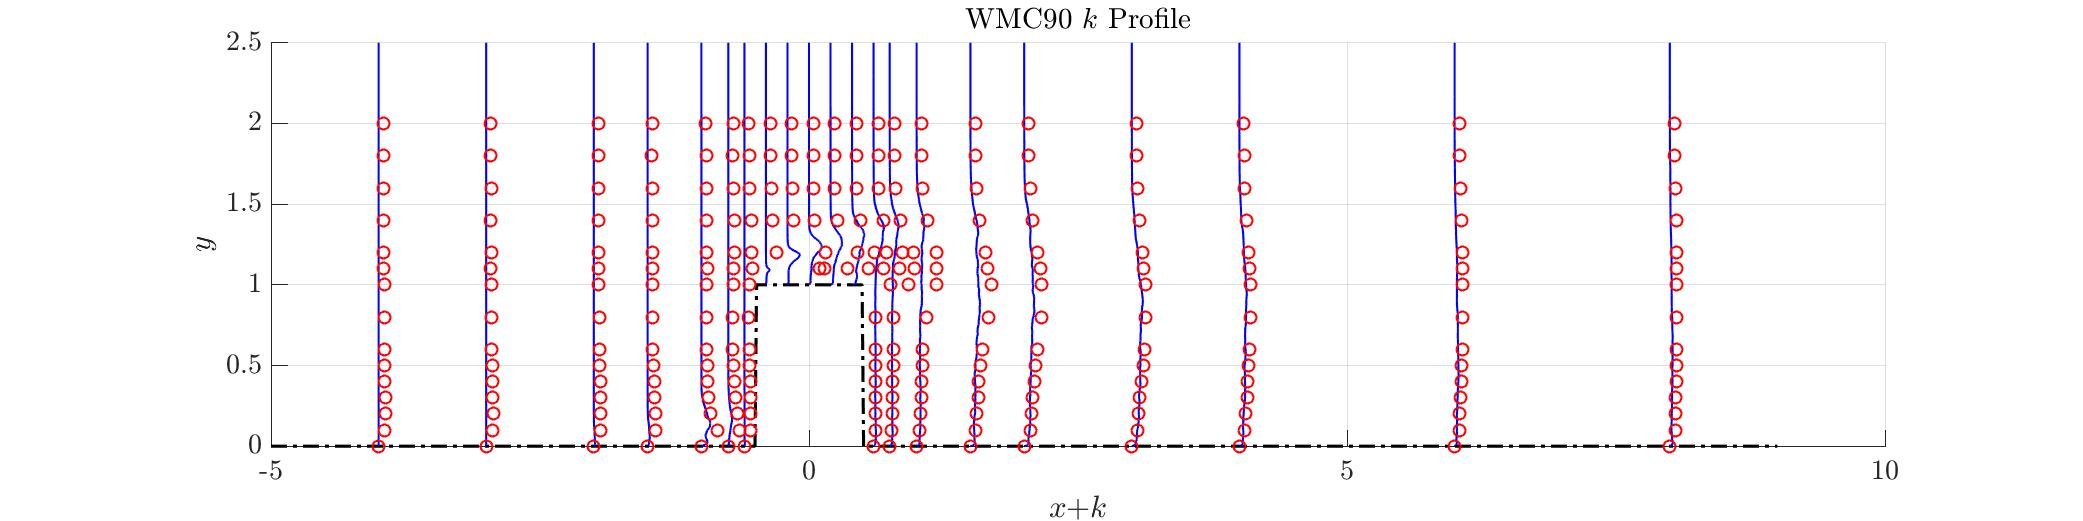
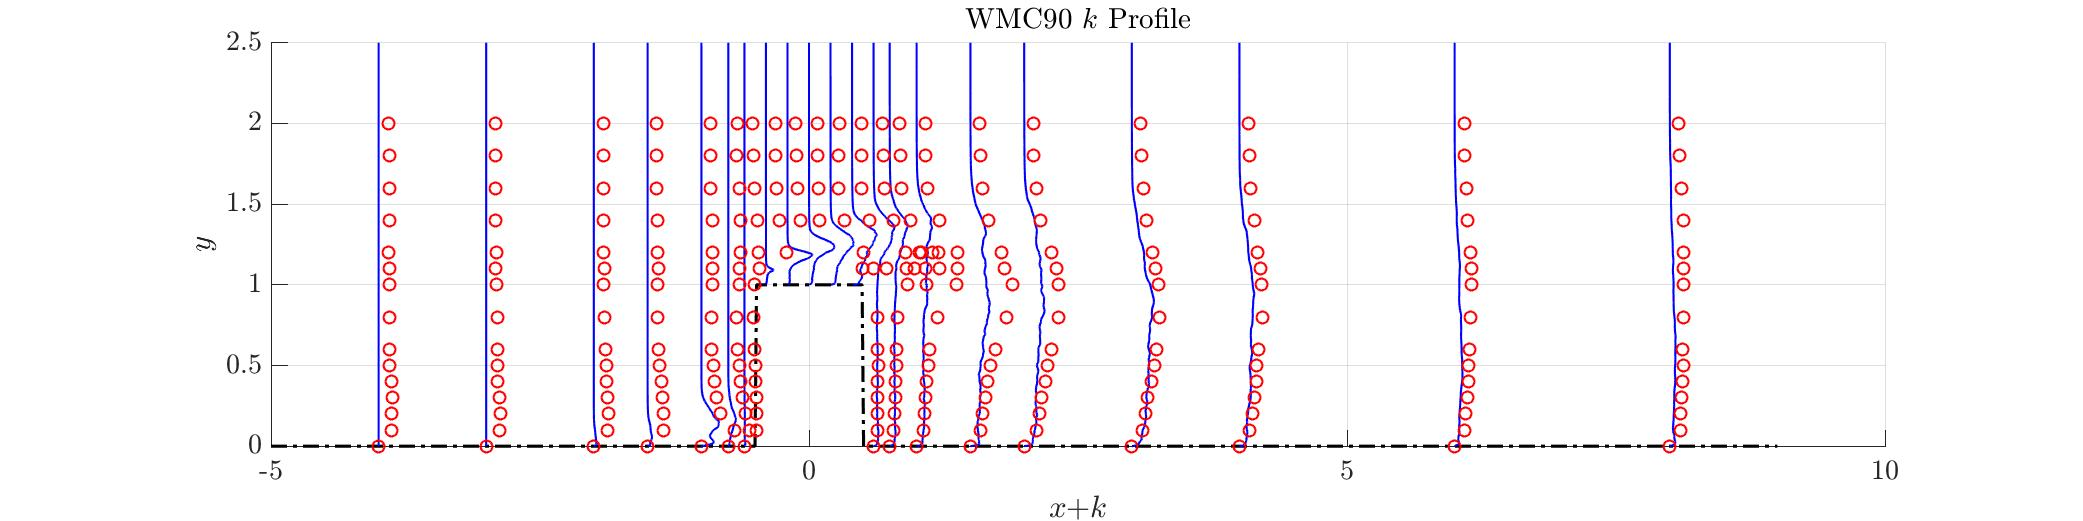
k=.5*(uu+vv)???

diff --git a/mtlb/epa90.m b/mtlb/epa90.m
@@ -46,6 +46,10 @@ vN=U(:,2);
 wN=U(:,3);
 pN=U(:,4);
 
+uuN=tk(:,1);
+vvN=tk(:,2);
+wwN=tk(:,3);
+
 kN = 0.5 * sum(tk')';
 
 I1=         1:nx1*ny1*nz1 ; I1=reshape(I1,[nx1,ny1,nz1]);
@@ -77,9 +81,9 @@ M=readmatrix('~/Nek5000/run/wmc/mtlb/EPA_WindTunnel/EP3C1CT.xls');
 xE1=M(:,1)*xfactor;
 yE1=M(:,2)*xfactor; % z -> y
 uE1=M(:,3)*ufactor;
-upE1=M(:,4)*ufactor;
+uuE1=M(:,4)*ufactor;
 vE1=M(:,5)*ufactor; % w -> v
-vpE1=M(:,6)*ufactor; % w -> v
+vvE1=M(:,6)*ufactor; % w -> v
 kE1=M(:,7)*ufactor*ufactor;
 knormE1=M(:,8)*ufactor;
 sqrtHE1=M(:,9)*ufactor;
@@ -89,8 +93,14 @@ zE1=xE1*0;
 %----------
 % figs
 %----------
+
+k1E1 = 0.5*(uuE1.*uuE1+vvE1.*vvE1);
+k1N  = 0.5*(uuN .*uuN +vvN .*vvN );
+
 profXY2(uN(I1),xN(I1),yN(I1),uE1,xE1,yE1,0.2,'u','$$v_x$$',al,xw,yw);
-profXY2(kN(I1),xN(I1),yN(I1),kE1,xE1,yE1,1.0,'k','$$k$$',al,xw,yw);
+profXY2(kN(I1),xN(I1),yN(I1),kE1,xE1,yE1,2.0,'k','$$k$$',al,xw,yw);
+profXY2(k1N(I1),xN(I1),yN(I1),k1E1,xE1,yE1,2.0,'k11','$$k$$',al,xw,yw);
+profXY2(kN(I1) ,xN(I1),yN(I1),k1E1,xE1,yE1,2.0,'k10','$$k$$',al,xw,yw);
 %=======================================================
 % vertical centerline plane
 %=======================================================
@@ -117,9 +127,9 @@ M=readmatrix('~/Nek5000/run/wmc/mtlb/EPA_WindTunnel/EP3C1GF.xls');
 xE2=M(:,1)*xfactor;
 zE2=M(:,2)*xfactor; % y -> z
 uE2=M(:,3)*ufactor;
-upE2=M(:,4)*ufactor;
+uuE2=M(:,4)*ufactor;
 vE2=M(:,7)*ufactor;  % w -> v
-vpE2=M(:,8)*ufactor; % w -> v
+vvE2=M(:,8)*ufactor; % w -> v
 
 yE2=xE2*0+0.1;
 [xE2,yE2,zE2] = insidecube(al,xE2,yE2,zE2);
